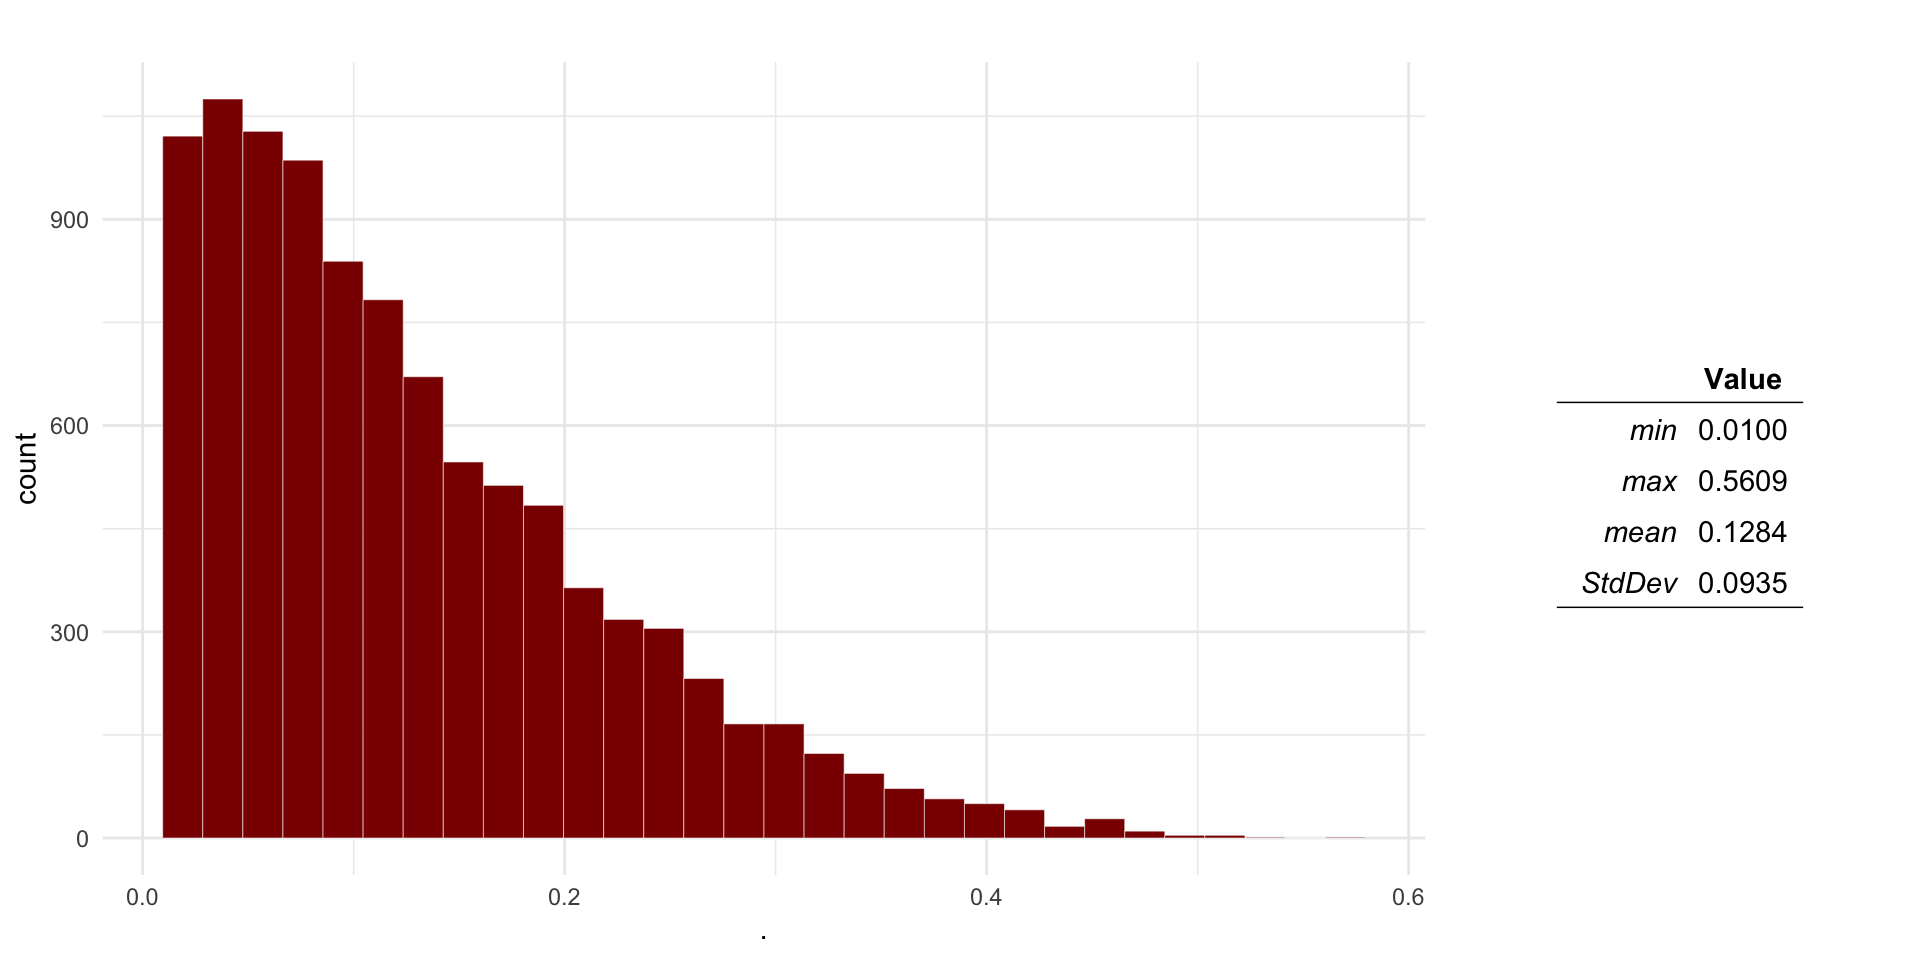
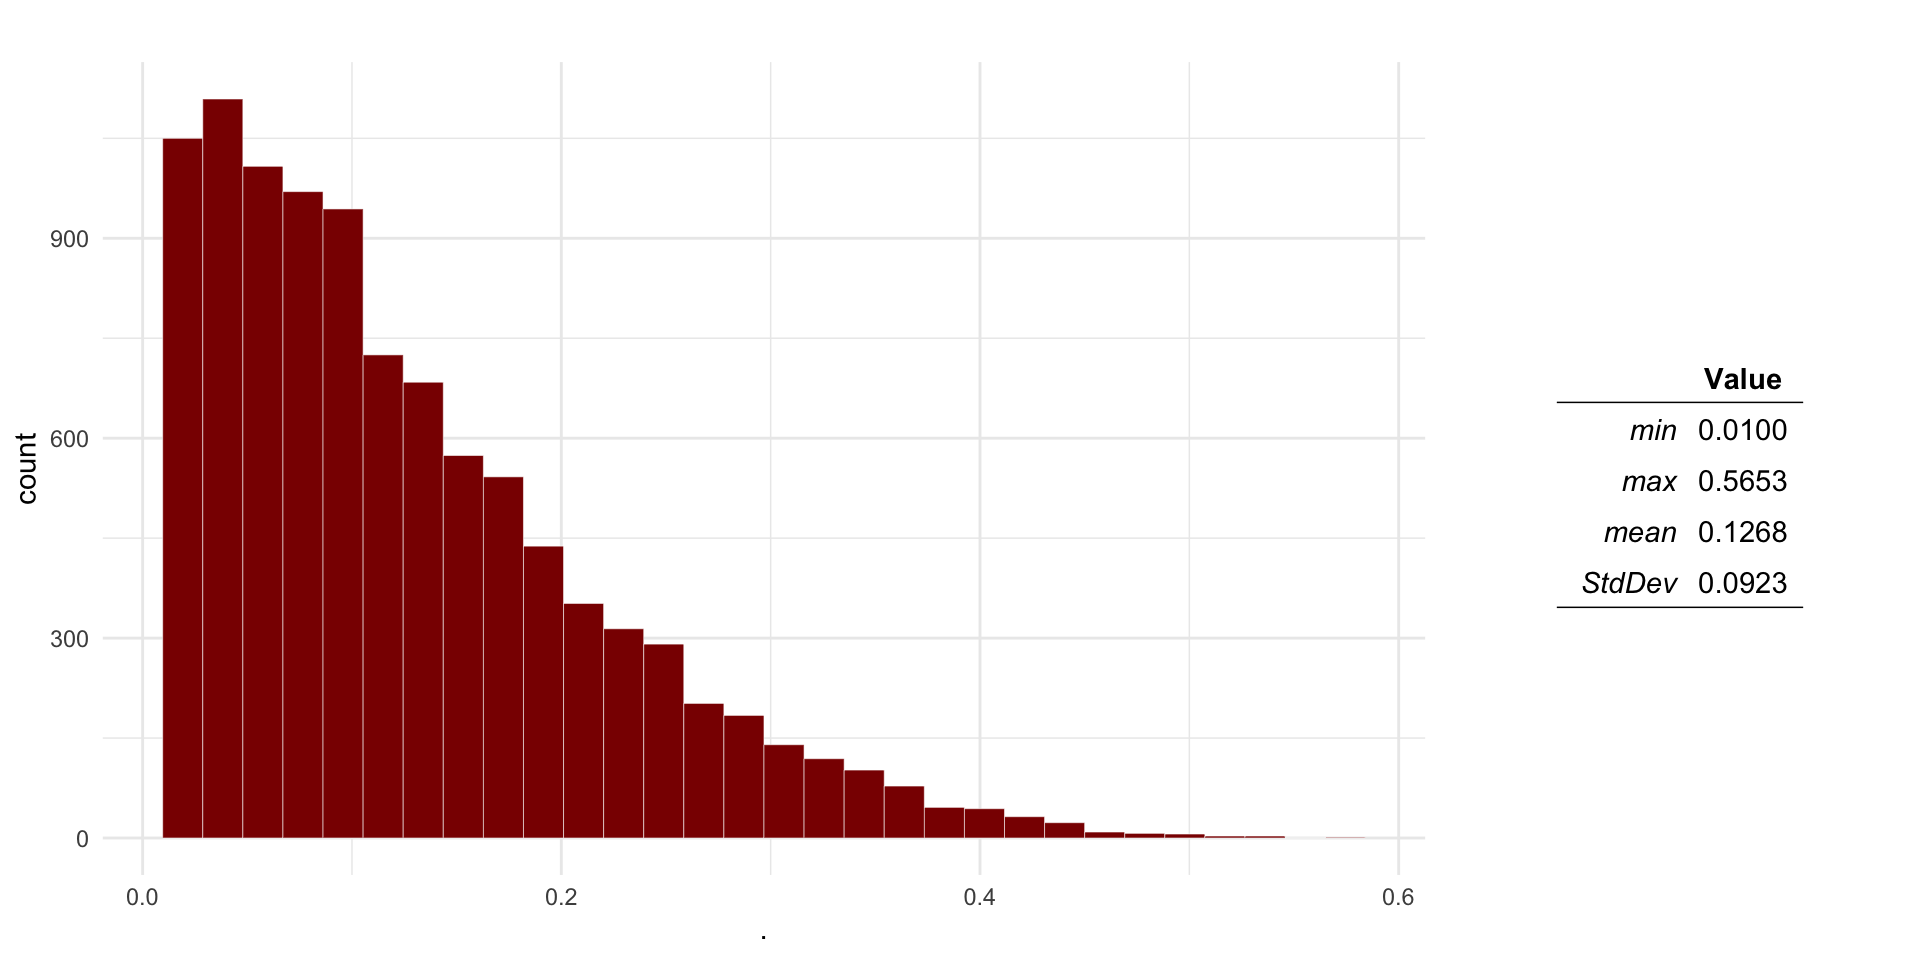
Updated slides

diff --git a/slides.html b/slides.html
@@ -611,8 +611,8 @@ How are we doing it?
 <div class="sourceCode cell-code" id="cb1"><pre class="sourceCode numberSource r number-lines code-with-copy"><code class="sourceCode r"><span id="cb1-1"><a href=""></a><span class="co"># Sample from distributions</span></span>
 <span id="cb1-2"><a href=""></a><span class="fu">ra_sample</span>(<span class="at">x =</span> <span class="st">'pert(0.01,  0.03, 0.64)'</span>, <span class="at">n =</span> <span class="dv">10</span>)</span></code><button title="Copy to Clipboard" class="code-copy-button"><i class="bi"></i></button></pre></div>
 <div class="cell-output cell-output-stdout">
-<pre><code> [1] 0.01845909 0.16016232 0.13883812 0.12766274 0.32400536 0.23636880
- [7] 0.21912656 0.13438208 0.09127296 0.19323584</code></pre>
+<pre><code> [1] 0.20646550 0.34606632 0.03641367 0.15434319 0.24444402 0.04976642
+ [7] 0.15565368 0.19680746 0.02642795 0.28357137</code></pre>
 </div>
 </div>
 </section>
@@ -627,6 +627,7 @@ How are we doing it?
 <img data-src="slides_files/figure-revealjs/ra_plot_dist-1.png" width="960" class="r-stretch"></section>
 <section id="quantrra-3" class="slide level2" data-background-image="img/bg.png">
 <h2>quantrra</h2>
+<p><br></p>
 
 <img data-src="img/ra/ModelTbl.png" class="quarto-figure quarto-figure-center r-stretch"><aside class="notes">
 <p>This platform facilitates to the user the translation of conceptual decision trees, into quantitative risk assessment models.</p>
@@ -652,27 +653,27 @@ How are we doing it?
 <span id="cb4-4"><a href=""></a><span class="fu">ra_run</span>(<span class="at">m =</span> m<span class="sc">$</span>nodes, <span class="at">nsim =</span> <span class="dv">10</span>) <span class="co"># Run the model </span></span></code><button title="Copy to Clipboard" class="code-copy-button"><i class="bi"></i></button></pre></div>
 <div class="cell-output cell-output-stdout">
 <pre><code>          P1         P2        P3        R1        R2       H1       H2
-1  0.5311286 0.06170627 0.2638588 0.7829619 0.7329034  5.55582 52.05526
-2  0.2790897 0.02777466 0.3106108 0.4439875 0.4513280 32.34967 30.12297
-3  0.6198387 0.10820951 0.4129814 0.9478434 0.3076857 47.63007 20.94782
-4  0.2597063 0.18124874 0.2528263 0.6393802 0.2644234 67.03314 39.45881
-5  0.5299334 0.08627384 0.3167102 0.7097447 0.7914988 40.20568 15.23432
-6  0.4405300 0.05384544 0.2828663 0.6472805 0.4838573 81.88681 31.58972
-7  0.4691119 0.11031784 0.2847368 0.4388322 0.2714567 24.21143 58.94356
-8  0.6089695 0.05119404 0.1342332 0.3743149 0.5693070 10.12981 25.90251
-9  0.5143219 0.04169169 0.1602070 0.6963970 0.4750188 59.26056 23.00135
-10 0.4325272 0.07821174 0.3136237 0.8736058 0.4984880 25.39129 45.36126
-            P4        R3            X         Z          P
-1  0.008647698 0.5738354 0.0049623550  57.61108 0.28588662
-2  0.002407737 0.2003840 0.0004824720  62.47264 0.03014130
-3  0.027699673 0.2916379 0.0080782740  68.57789 0.55399101
-4  0.011900900 0.1690671 0.0020120503 106.49195 0.21426717
-5  0.014479797 0.5617621 0.0081342008  55.44000 0.45096007
-6  0.006709740 0.3131914 0.0021014328 113.47653 0.23846330
-7  0.014735531 0.1191239 0.0017553545  83.15500 0.14596650
-8  0.004184801 0.2131001 0.0008917814  36.03232 0.03213295
-9  0.003435312 0.3308016 0.0011364068  82.26192 0.09348300
-10 0.010609484 0.4354820 0.0046202394  70.75255 0.32689373</code></pre>
+1  0.5152637 0.08104240 0.1472671 0.8292495 0.4352019 46.07760 24.48849
+2  0.6344913 0.07319121 0.3876635 0.5643567 0.6837376 11.48246 37.49300
+3  0.6001301 0.16860624 0.2664026 0.7114152 0.6010132 74.95224 19.45106
+4  0.5171029 0.13312370 0.3295570 0.8915226 0.7401387 42.15458 11.94104
+5  0.2450767 0.09643685 0.3066192 0.4840077 0.4324723 17.41548 38.19729
+6  0.4873928 0.15571132 0.3034166 0.8240984 0.2669901 51.31539 43.58153
+7  0.4810877 0.37177200 0.3245175 0.5916030 0.3925706 26.14272 21.46986
+8  0.5656253 0.11780752 0.3034165 0.7189545 0.5532162 41.46080 23.35630
+9  0.3921924 0.13041882 0.2386338 0.8503475 0.6861166 60.41409 17.18120
+10 0.4213764 0.16569390 0.1779100 0.6717943 0.7107458 47.54389 71.77220
+            P4        R3           X         Z          P
+1  0.006149612 0.3608910 0.002219340  70.56609 0.15661012
+2  0.018002778 0.3858719 0.006946766  48.97546 0.34022102
+3  0.026956127 0.4275699 0.011525628  94.40329 1.08805722
+4  0.022686258 0.6598504 0.014969536  54.09562 0.80978635
+5  0.007246768 0.2093199 0.001516893  55.61278 0.08435863
+6  0.023027072 0.2200261 0.005066558  94.89692 0.48080072
+7  0.058041557 0.2322460 0.013479917  47.61258 0.64181366
+8  0.020218134 0.3977373 0.008041505  64.81710 0.52122703
+9  0.012205942 0.5834375 0.007121404  77.59529 0.55258740
+10 0.012421585 0.4774750 0.005930996 119.31608 0.70766324</code></pre>
 </div>
 </div>
 </section>
